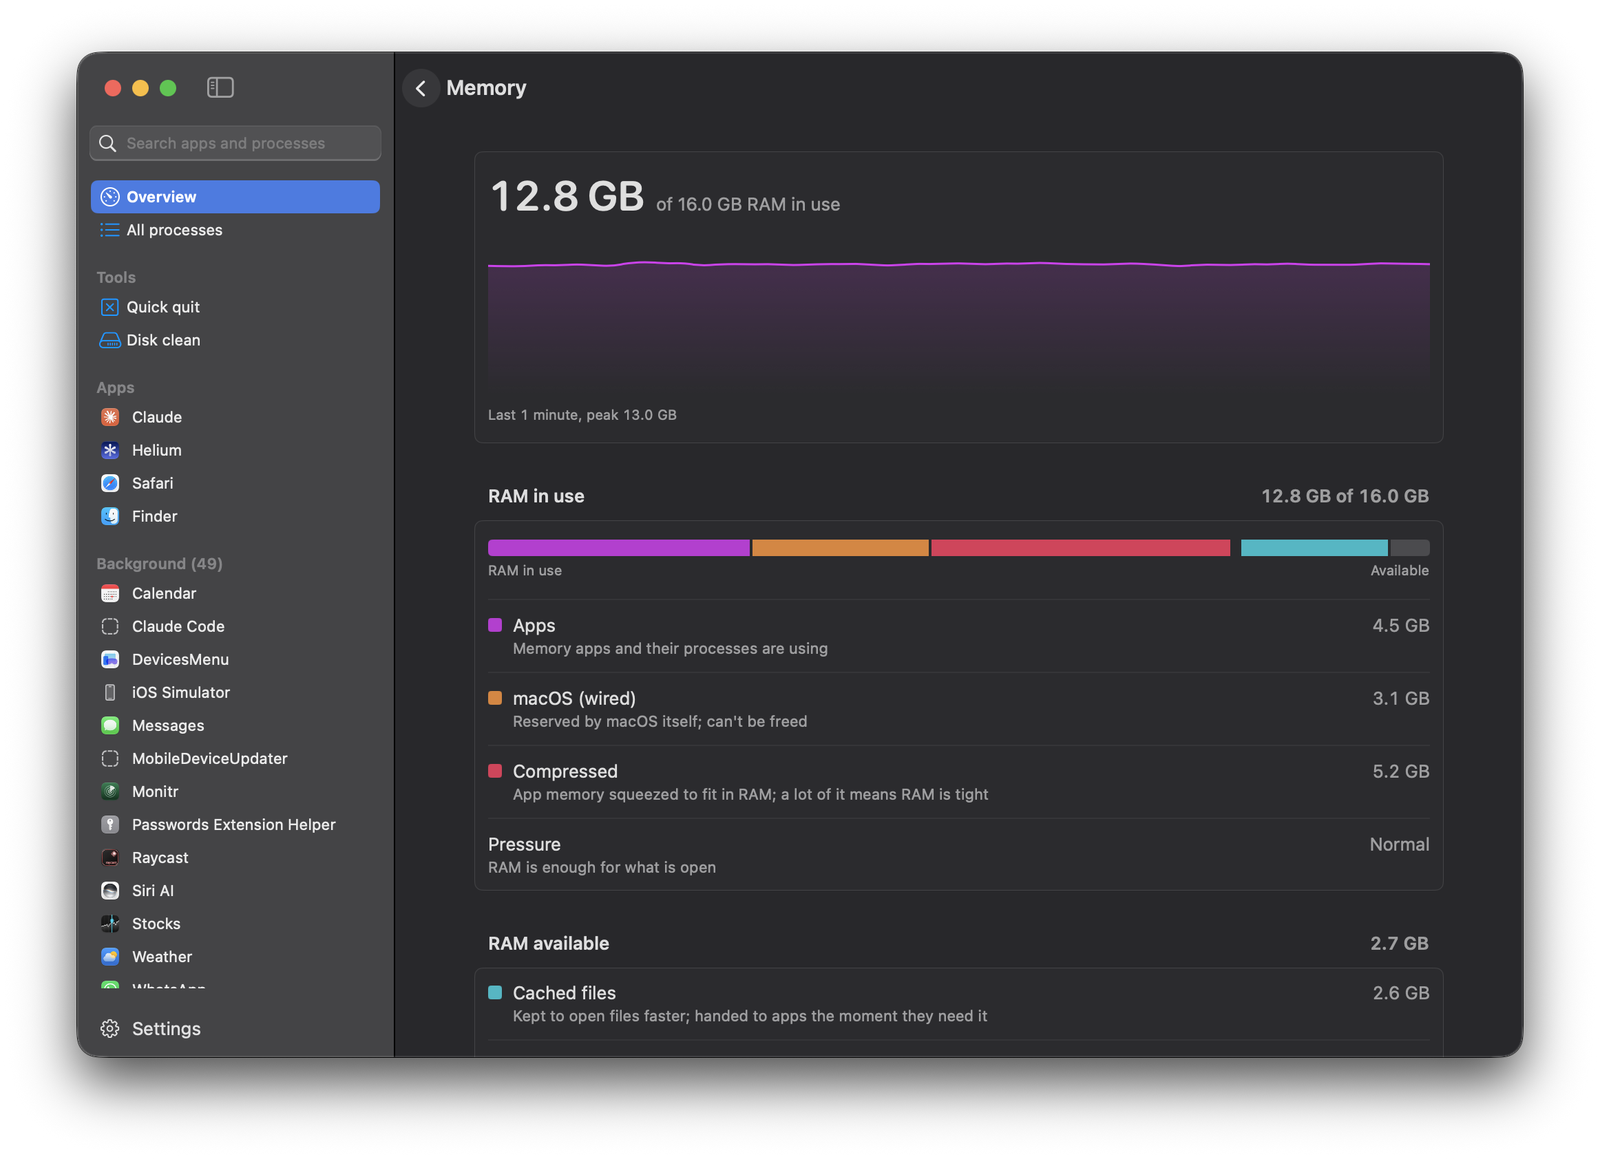
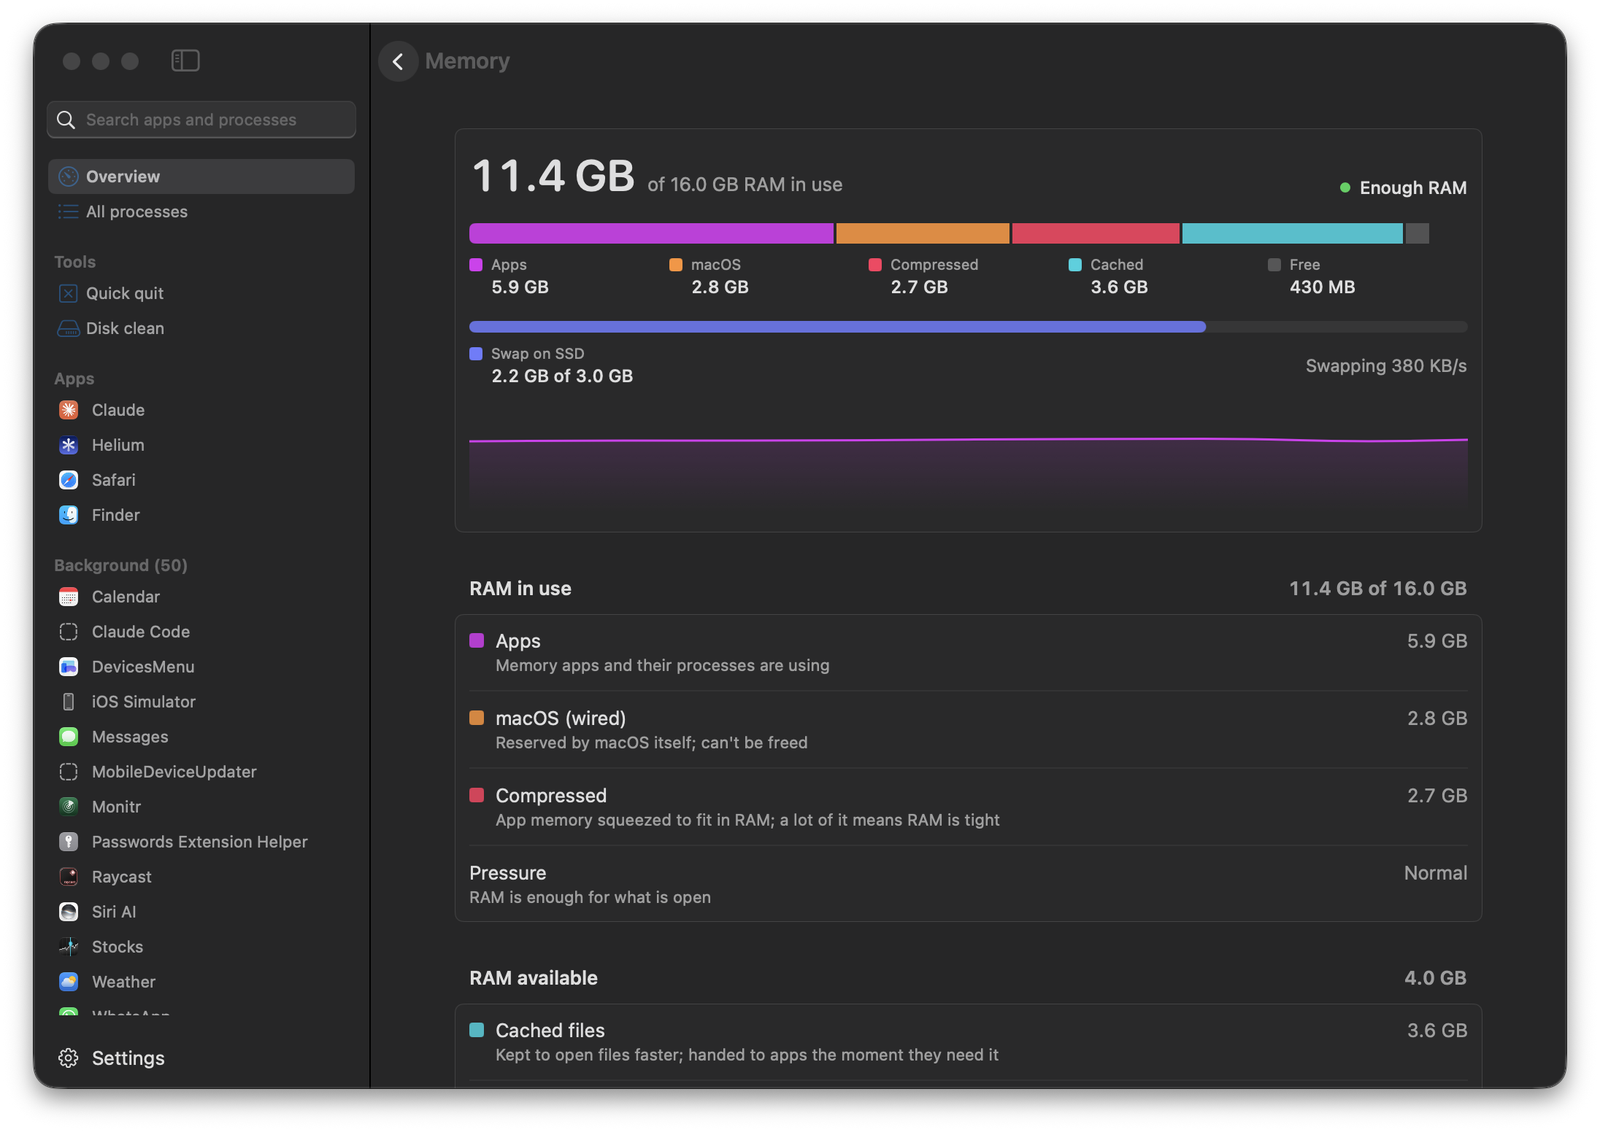
Memory at a glance: RAM split and swap together, no scrolling
The Memory page opens with one RAM bar split into apps, macOS,
compressed, cached and free, each sized right under the bar, a swap bar
on the SSD directly below, a plain pressure label, and the history
chart. The explanations stay further down. README screenshot updated.

diff --git a/Sources/Monitr/UI/MetricDetailView.swift b/Sources/Monitr/UI/MetricDetailView.swift
@@ -31,8 +31,12 @@ struct MetricDetailView: View {
         case .cpu:
             ChartHeader(value: Fmt.percent(s.cpu), caption: "of all cores in use", ring: store.cpuHistory, ceiling: 100, tint: .blue, peak: Fmt.percent)
         case .memory:
-            ChartHeader(value: Fmt.bytes(s.memoryUsed), caption: "of \(Fmt.bytes(s.memoryTotal)) RAM in use", ring: store.memHistory, ceiling: 100, tint: .purple,
-                        peak: { Fmt.bytes(UInt64($0 / 100 * Double(s.memoryTotal))) })
+            if let m = store.detail?.kind == .memory ? store.detail?.memory : nil {
+                MemoryGlance(d: m, pressure: s.pressure, ring: store.memHistory)
+            } else {
+                ChartHeader(value: Fmt.bytes(s.memoryUsed), caption: "of \(Fmt.bytes(s.memoryTotal)) RAM in use", ring: store.memHistory, ceiling: 100, tint: .purple,
+                            peak: { Fmt.bytes(UInt64($0 / 100 * Double(s.memoryTotal))) })
+            }
         case .network:
             ChartHeader(value: "↓" + Fmt.rate(s.netIn), caption: "down, ↑ \(Fmt.rate(s.netOut)) up", ring: store.netInHistory, ceiling: nil, tint: .teal, peak: Fmt.rate)
         case .temperature:
@@ -110,7 +114,6 @@ private struct MemorySections: View {
         if let d {
             let available = d.cached + d.free
             Section {
-                MemoryBar(d: d)
                 Fact(label: "Apps", value: Fmt.bytes(d.app), note: "Memory apps and their processes are using", swatch: .purple)
                 Fact(label: "macOS (wired)", value: Fmt.bytes(d.wired), note: "Reserved by macOS itself; can't be freed", swatch: .orange)
                 Fact(label: "Compressed", value: Fmt.bytes(d.compressed),
@@ -127,9 +130,6 @@ private struct MemorySections: View {
                 SectionHeading(title: "RAM available", value: Fmt.bytes(available))
             }
             Section {
-                if d.swapTotal > 0 {
-                    SwapBar(used: d.swapUsed, total: d.swapTotal)
-                }
                 Fact(label: "In swap", value: d.swapTotal == 0 ? "None" : "\(Fmt.bytes(d.swapUsed)) of \(Fmt.bytes(d.swapTotal))",
                      note: "App memory that did not fit in RAM, parked in a file on the SSD")
                 Fact(label: "Moving in and out now", value: swapActivity(d),
@@ -166,6 +166,106 @@ private struct MemorySections: View {
     }
 }
 
+/// Everything about memory in one look: RAM split by use with sizes under the bar, swap on the
+/// same scale of attention right below it, then the recent history.
+private struct MemoryGlance: View {
+    let d: MemoryDetail
+    let pressure: MemoryPressure
+    let ring: Ring
+
+    private var pressureLabel: (String, Color) {
+        switch pressure {
+        case .normal: ("Enough RAM", .green)
+        case .warning: ("RAM is tight", .orange)
+        case .critical: ("Out of RAM", .red)
+        }
+    }
+
+    var body: some View {
+        let parts: [(String, UInt64, Color)] = [
+            ("Apps", d.app, .purple), ("macOS", d.wired, .orange), ("Compressed", d.compressed, .pink),
+            ("Cached", d.cached, .teal), ("Free", d.free, Color.primary.opacity(0.25)),
+        ]
+        VStack(alignment: .leading, spacing: Space.l) {
+            HStack(alignment: .firstTextBaseline, spacing: Space.s) {
+                Text(Fmt.bytes(d.used)).font(.system(size: 30, weight: .semibold, design: .rounded)).monospacedDigit()
+                Text("of \(Fmt.bytes(d.total)) RAM in use").foregroundStyle(.secondary)
+                Spacer()
+                Label(pressureLabel.0, systemImage: "circle.fill")
+                    .labelStyle(PressureLabelStyle(tint: pressureLabel.1))
+            }
+
+            // RAM: one bar, the same order as the labels under it.
+            VStack(alignment: .leading, spacing: Space.s) {
+                GeometryReader { geo in
+                    HStack(spacing: 2) {
+                        ForEach(Array(parts.enumerated()), id: \.offset) { _, p in
+                            Rectangle().fill(p.2.opacity(0.9))
+                                .frame(width: max(2, geo.size.width * CGFloat(Double(p.1) / Double(max(d.total, 1))) - 2))
+                        }
+                    }
+                }
+                .frame(height: 14)
+                .clipShape(RoundedRectangle(cornerRadius: 4, style: .continuous))
+                HStack(alignment: .top, spacing: 0) {
+                    ForEach(Array(parts.enumerated()), id: \.offset) { _, p in
+                        Legend(color: p.2, title: p.0, value: Fmt.bytes(p.1))
+                            .frame(maxWidth: .infinity, alignment: .leading)
+                    }
+                }
+            }
+
+            // Swap: overflow on the SSD, directly under RAM so both read together.
+            VStack(alignment: .leading, spacing: Space.s) {
+                UsageBar(fraction: Double(d.swapUsed) / Double(max(d.swapTotal, 1)), tint: .indigo).frame(height: 8)
+                HStack(spacing: Space.l) {
+                    Legend(color: .indigo, title: "Swap on SSD",
+                           value: d.swapTotal == 0 ? "None" : "\(Fmt.bytes(d.swapUsed)) of \(Fmt.bytes(d.swapTotal))")
+                    Spacer()
+                    Text(swapNow).font(.callout).foregroundStyle(.secondary)
+                }
+            }
+
+            Sparkline(ring: ring, ceiling: 100, tint: .purple,
+                      hoverFormat: { Fmt.bytes(UInt64($0 / 100 * Double(d.total))) })
+                .frame(height: 70)
+        }
+        .padding(.vertical, Space.xs)
+        .accessibilityElement(children: .combine)
+    }
+
+    private var swapNow: String {
+        let bytes = (d.swapInsPerSec + d.swapOutsPerSec) * Double(vm_kernel_page_size)
+        return bytes < 1 ? "Not swapping now" : "Swapping \(Fmt.rate(bytes))"
+    }
+
+    private struct Legend: View {
+        let color: Color
+        let title: String
+        let value: String
+        var body: some View {
+            HStack(alignment: .firstTextBaseline, spacing: 6) {
+                RoundedRectangle(cornerRadius: 2, style: .continuous).fill(color).frame(width: 9, height: 9)
+                    .alignmentGuide(.firstTextBaseline) { $0[.bottom] - 1 }
+                VStack(alignment: .leading, spacing: 1) {
+                    Text(title).font(.caption).foregroundStyle(.secondary)
+                    Text(value).font(.callout.weight(.medium)).monospacedDigit()
+                }
+            }
+        }
+    }
+
+    private struct PressureLabelStyle: LabelStyle {
+        let tint: Color
+        func makeBody(configuration: Configuration) -> some View {
+            HStack(spacing: 6) {
+                configuration.icon.font(.system(size: 7)).foregroundStyle(tint)
+                configuration.title.font(.callout.weight(.medium))
+            }
+        }
+    }
+}
+
 /// A section title with its total on the right, like "In use      13.3 GB".
 private struct SectionHeading: View {
     let title: String
@@ -176,60 +276,6 @@ private struct SectionHeading: View {
             Spacer()
             Text(value).monospacedDigit().foregroundStyle(.secondary)
         }
-    }
-}
-
-/// All of RAM in one bar: what is in use, a gap, then what is available.
-private struct MemoryBar: View {
-    let d: MemoryDetail
-    var body: some View {
-        VStack(alignment: .leading, spacing: Space.xs) {
-            GeometryReader { geo in
-                let total = Double(max(d.total, 1))
-                let w = geo.size.width - 6
-                HStack(spacing: 2) {
-                    seg(d.app, .purple, w, total)
-                    seg(d.wired, .orange, w, total)
-                    seg(d.compressed, .pink, w, total)
-                    Spacer().frame(width: 4)
-                    seg(d.cached, .teal, w, total)
-                    Rectangle().fill(Color.primary.opacity(0.18))
-                }
-            }
-            .frame(height: 12)
-            .clipShape(RoundedRectangle(cornerRadius: 3, style: .continuous))
-            HStack {
-                Text("RAM in use").font(.caption).foregroundStyle(.secondary)
-                Spacer()
-                Text("Available").font(.caption).foregroundStyle(.secondary)
-            }
-        }
-        .padding(.vertical, Space.xs)
-        .accessibilityElement(children: .ignore)
-        .accessibilityLabel("\(Fmt.bytes(d.used)) in use, \(Fmt.bytes(d.cached + d.free)) available")
-    }
-
-    private func seg(_ v: UInt64, _ c: Color, _ w: CGFloat, _ total: Double) -> some View {
-        Rectangle().fill(c.opacity(0.85)).frame(width: max(0, w * CGFloat(Double(v) / total) - 2))
-    }
-}
-
-/// How full the swap file is, drawn apart from RAM so the two are never confused.
-private struct SwapBar: View {
-    let used: UInt64
-    let total: UInt64
-    var body: some View {
-        VStack(alignment: .leading, spacing: Space.xs) {
-            UsageBar(fraction: Double(used) / Double(max(total, 1)), tint: .indigo).frame(height: 12)
-            HStack {
-                Text("Swap used").font(.caption).foregroundStyle(.secondary)
-                Spacer()
-                Text("\(Fmt.bytes(total)) swap file").font(.caption).foregroundStyle(.secondary)
-            }
-        }
-        .padding(.vertical, Space.xs)
-        .accessibilityElement(children: .ignore)
-        .accessibilityLabel("\(Fmt.bytes(used)) of \(Fmt.bytes(total)) swap used")
     }
 }
 

diff --git a/README.md b/README.md
@@ -27,11 +27,11 @@ processes.
 
 <table>
   <tr>
-    <td width="50%"><img src="docs/images/memory.png" alt="Memory page: RAM in use split into apps, macOS and compressed, then RAM available, then swap on the SSD"></td>
+    <td width="50%"><img src="docs/images/memory.png" alt="Memory page: one RAM bar split into apps, macOS, compressed, cached and free with sizes, a swap bar under it, and a pressure label"></td>
     <td width="50%"><img src="docs/images/network.png" alt="Network page: live rate chart and data used today, in the last 7 and 30 days"></td>
   </tr>
   <tr>
-    <td><b>Memory.</b> RAM in use (apps, macOS, compressed), RAM available (cached files, free) and swap on the SSD, each in plain words, with pressure.</td>
+    <td><b>Memory.</b> One look shows how RAM is split (apps, macOS, compressed, cached, free) and how much spilled into swap on the SSD, with a plain "Enough RAM" or "RAM is tight". Explanations follow below.</td>
     <td><b>Network.</b> Data used today, in the last 7 and 30 days, per day for two weeks and per app, plus each connection's totals.</td>
   </tr>
 </table>
